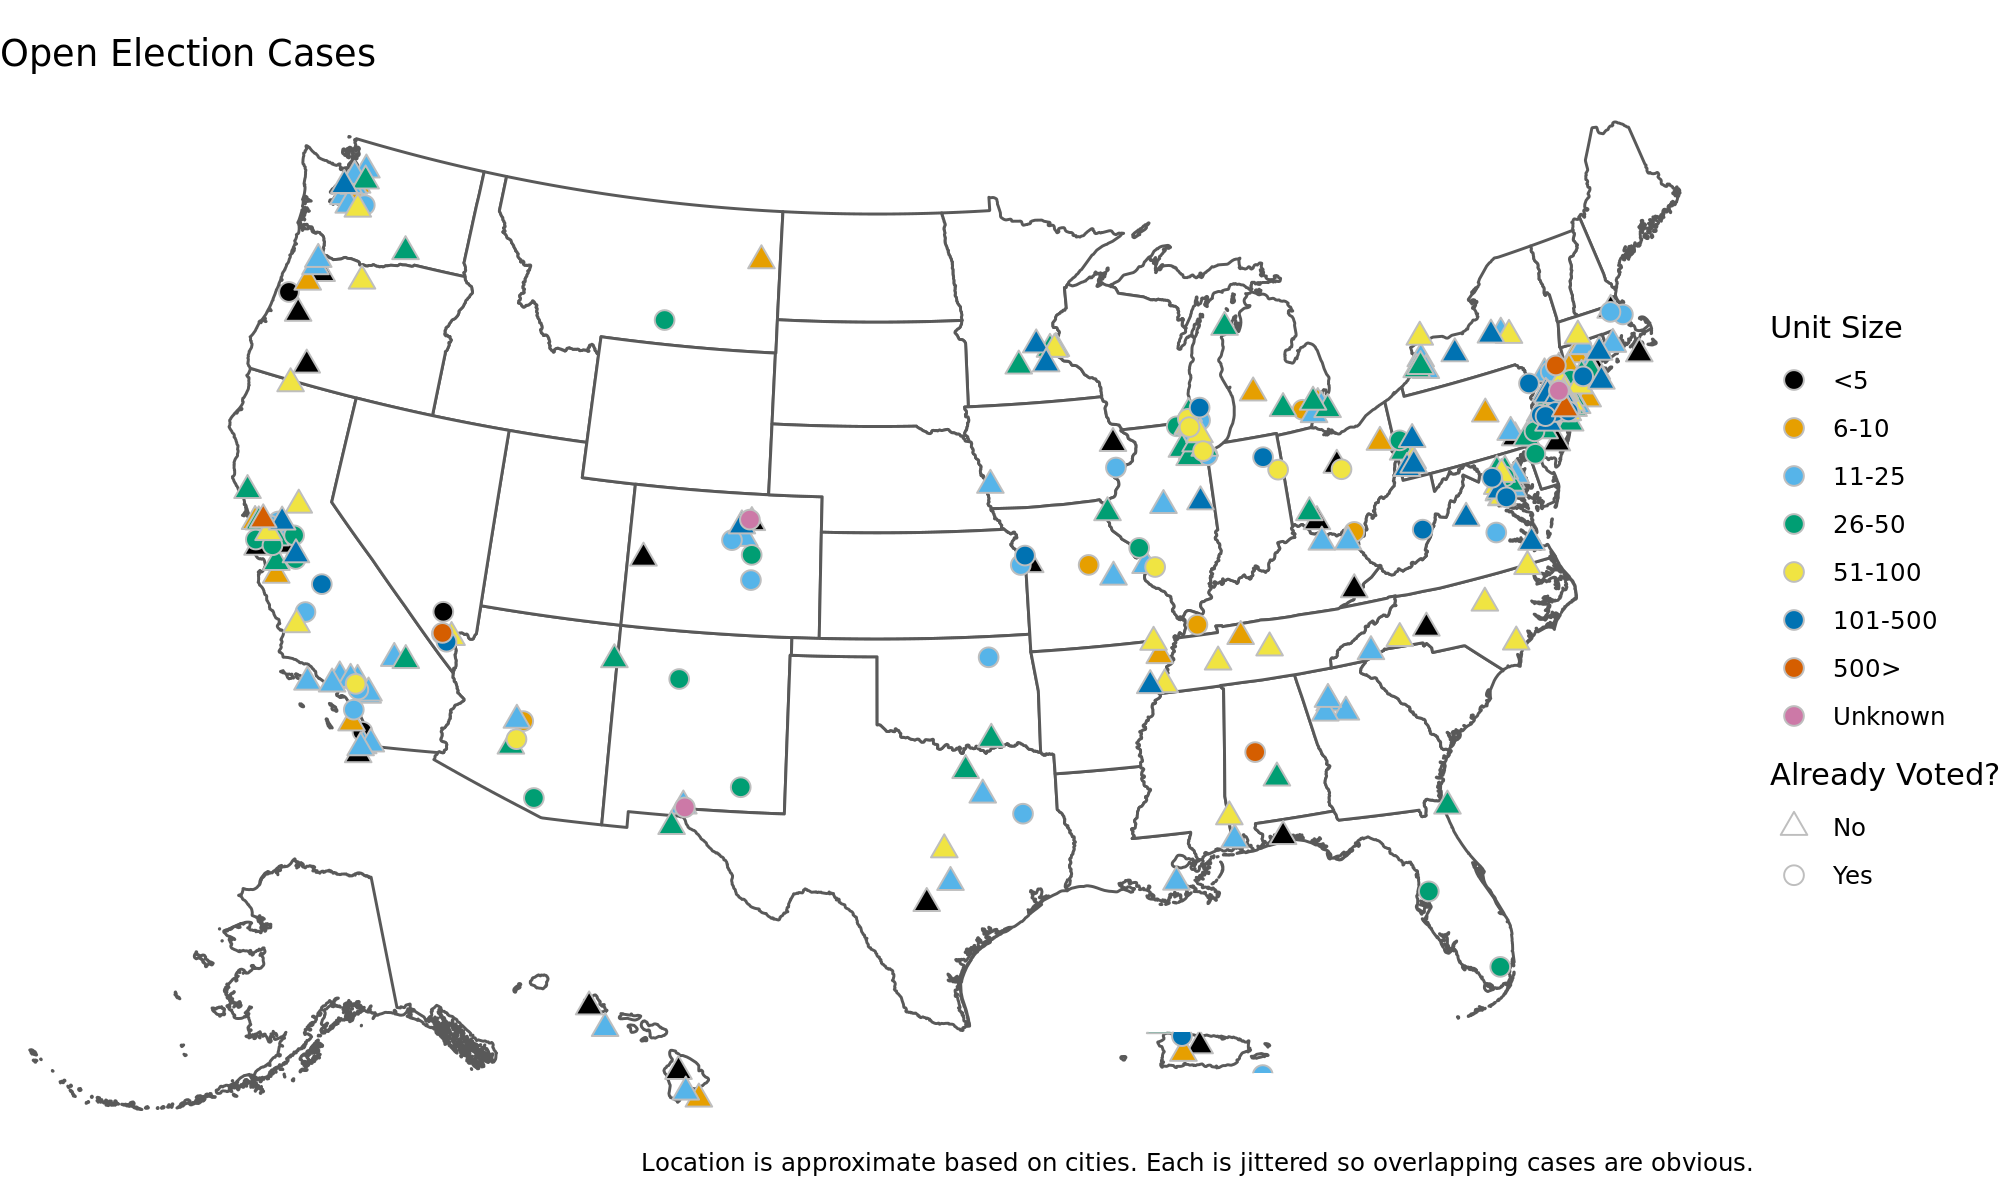
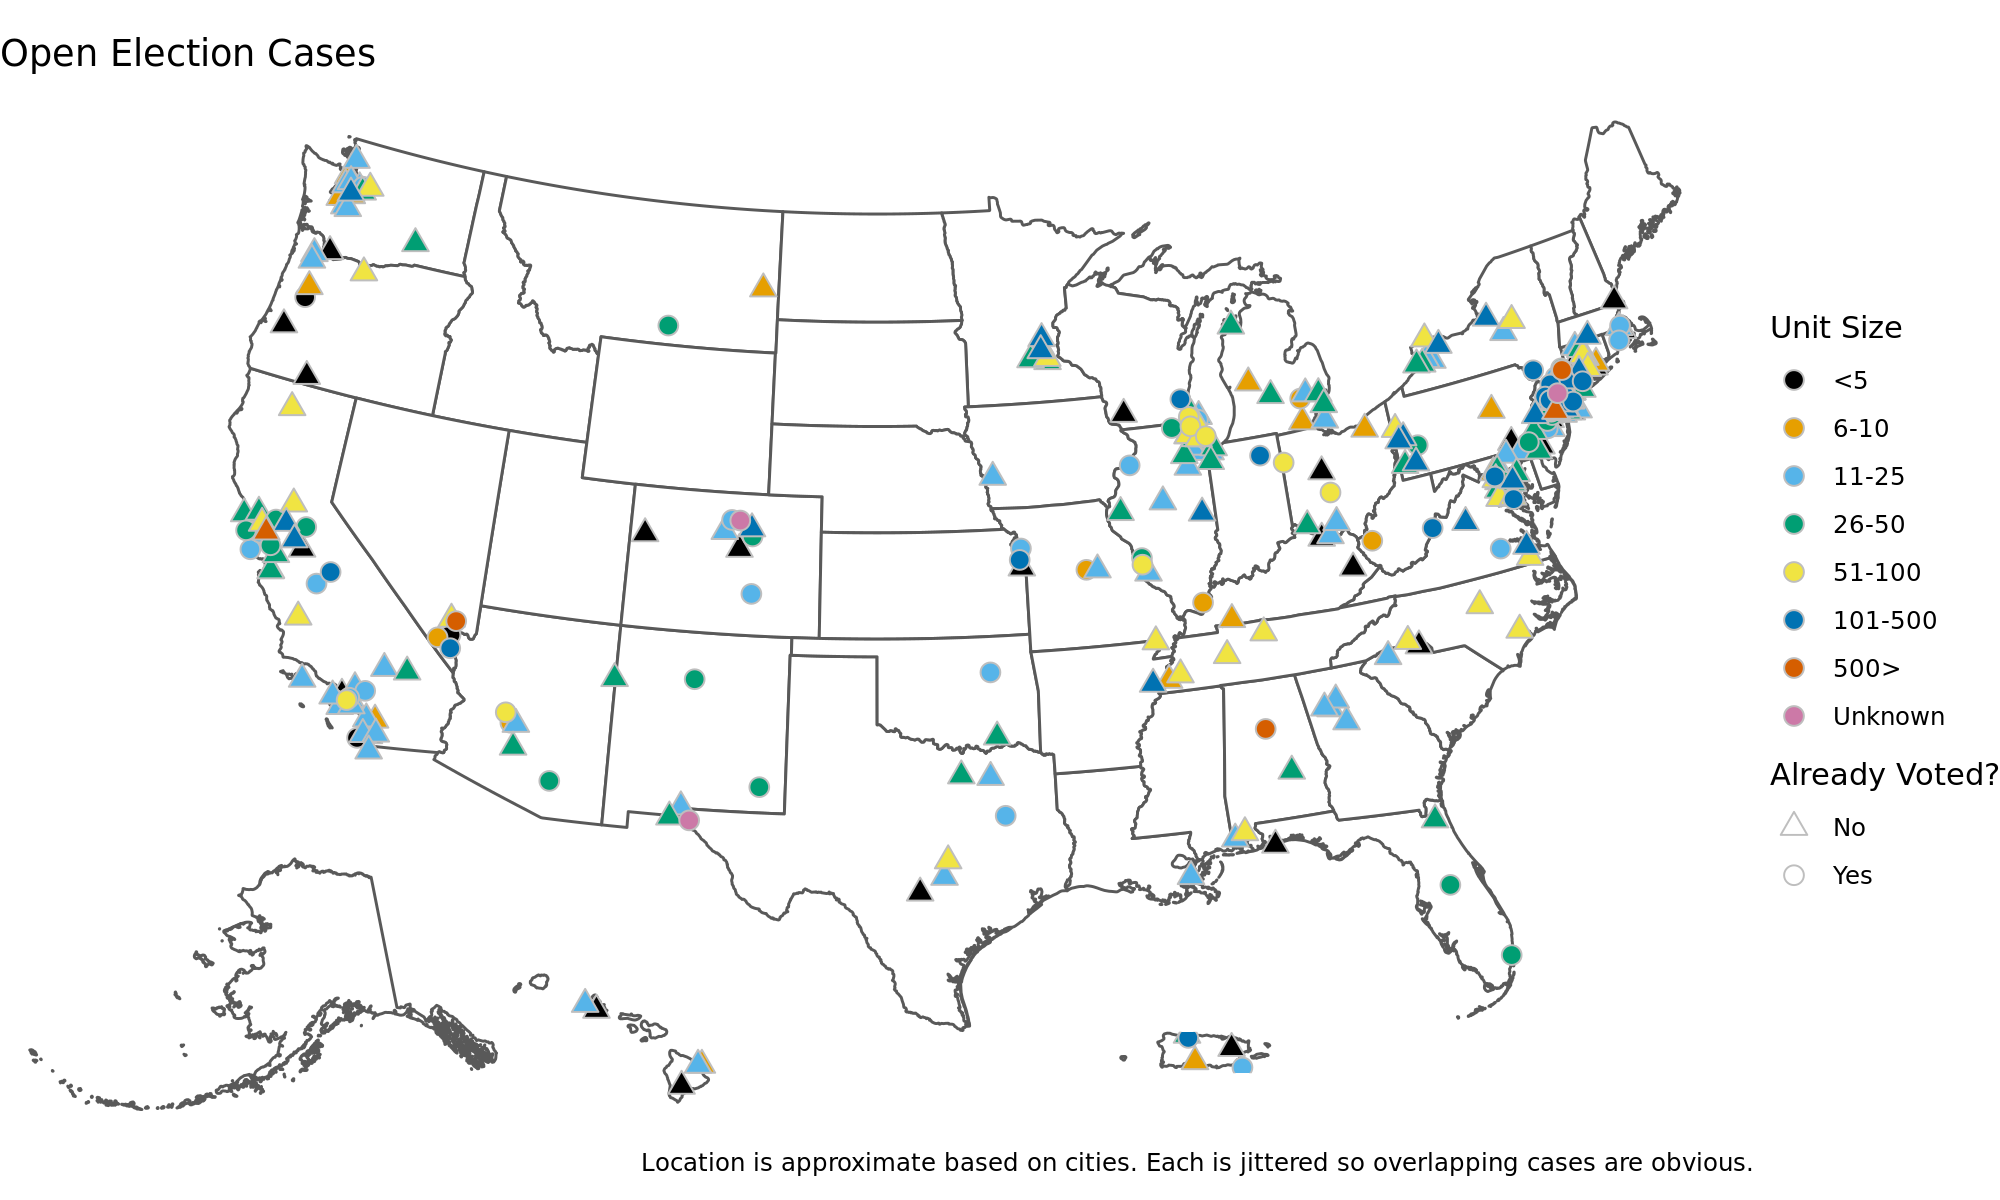
Updated Plots

diff --git a/content/tables/states/California_open.html b/content/tables/states/California_open.html
@@ -437,6 +437,20 @@
    <td style="text-align:center;"> <a href='https://www.nlrb.gov/case/32-RC-281041'>32-RC-281041</a> </td>
   </tr>
   <tr>
+   <td style="text-align:left;"> Tarzana </td>
+   <td style="text-align:left;"> CA </td>
+   <td style="text-align:left;"> Tarzana Medical Center, LLC </td>
+   <td style="text-align:left;"> SEIU Local 121RN, CTW, CLC </td>
+   <td style="text-align:center;"> Aug 06, 2021 </td>
+   <td style="text-align:center;">  </td>
+   <td style="text-align:center;">  </td>
+   <td style="text-align:center;"> Initial </td>
+   <td style="text-align:center;">  </td>
+   <td style="text-align:center;">  </td>
+   <td style="text-align:center;"> 4 </td>
+   <td style="text-align:center;"> <a href='https://www.nlrb.gov/case/31-RC-281017'>31-RC-281017</a> </td>
+  </tr>
+  <tr>
    <td style="text-align:left;"> Hemet </td>
    <td style="text-align:left;"> CA </td>
    <td style="text-align:left;"> Garfield Beach CVS, L.L.C. dba CVS Pharmacy </td>

diff --git a/content/tables/national/United_States_open.html b/content/tables/national/United_States_open.html
@@ -2481,6 +2481,20 @@
    <td style="text-align:center;"> <a href='https://www.nlrb.gov/case/14-RC-280992'>14-RC-280992</a> </td>
   </tr>
   <tr>
+   <td style="text-align:left;"> Tarzana </td>
+   <td style="text-align:left;"> CA </td>
+   <td style="text-align:left;"> Tarzana Medical Center, LLC </td>
+   <td style="text-align:left;"> SEIU Local 121RN, CTW, CLC </td>
+   <td style="text-align:center;"> Aug 06, 2021 </td>
+   <td style="text-align:center;">  </td>
+   <td style="text-align:center;">  </td>
+   <td style="text-align:center;"> Initial </td>
+   <td style="text-align:center;">  </td>
+   <td style="text-align:center;">  </td>
+   <td style="text-align:center;"> 4 </td>
+   <td style="text-align:center;"> <a href='https://www.nlrb.gov/case/31-RC-281017'>31-RC-281017</a> </td>
+  </tr>
+  <tr>
    <td style="text-align:left;"> Washington </td>
    <td style="text-align:left;"> DC </td>
    <td style="text-align:left;"> Omni Excavators, Inc. </td>

diff --git a/content/tables/union/SEIU_open.html b/content/tables/union/SEIU_open.html
@@ -311,6 +311,20 @@
    <td style="text-align:center;"> <a href='https://www.nlrb.gov/case/18-RC-281070'>18-RC-281070</a> </td>
   </tr>
   <tr>
+   <td style="text-align:left;"> Tarzana </td>
+   <td style="text-align:left;"> CA </td>
+   <td style="text-align:left;"> Tarzana Medical Center, LLC </td>
+   <td style="text-align:left;"> SEIU Local 121RN, CTW, CLC </td>
+   <td style="text-align:center;"> Aug 06, 2021 </td>
+   <td style="text-align:center;">  </td>
+   <td style="text-align:center;">  </td>
+   <td style="text-align:center;"> Initial </td>
+   <td style="text-align:center;">  </td>
+   <td style="text-align:center;">  </td>
+   <td style="text-align:center;"> 4 </td>
+   <td style="text-align:center;"> <a href='https://www.nlrb.gov/case/31-RC-281017'>31-RC-281017</a> </td>
+  </tr>
+  <tr>
    <td style="text-align:left;"> Syracuse </td>
    <td style="text-align:left;"> NY </td>
    <td style="text-align:left;"> WellNow Urgent Care, PC </td>

diff --git a/content/tables/union/filed_ytd.html b/content/tables/union/filed_ytd.html
@@ -454,7 +454,7 @@
   </tr>
   <tr>
    <td style="text-align:left;"> SEIU </td>
-   <td style="text-align:center;"> 25 </td>
+   <td style="text-align:center;"> 26 </td>
    <td style="text-align:center;"> 51 </td>
    <td style="text-align:center;"> 37 </td>
    <td style="text-align:center;"> 72.55% </td>

diff --git a/content/tables/states/filed_ytd.html b/content/tables/states/filed_ytd.html
@@ -49,7 +49,7 @@
   </tr>
   <tr>
    <td style="text-align:left;"> CA </td>
-   <td style="text-align:center;"> 48 </td>
+   <td style="text-align:center;"> 49 </td>
    <td style="text-align:center;"> 101 </td>
    <td style="text-align:center;"> 74 </td>
    <td style="text-align:center;"> 73.27% </td>

diff --git a/content/data/national/_index.md b/content/data/national/_index.md
@@ -8,7 +8,7 @@ weight: 1
 ---
 ##  United States
 
-Excluding public employees, in the last year there have been 935 union elections filed in the United States and 886 union elections held. In 572 of those elections a new unit was certified. There are currently 358 open representation cases and 257 of are still waiting to vote.
+Excluding public employees, in the last year there have been 936 union elections filed in the United States and 886 union elections held. In 572 of those elections a new unit was certified. There are currently 359 open representation cases and 258 of are still waiting to vote.
 
 ### Number Employees in a Union Election by Outcome
 {{< image src="United_States_hist_vic.png" >}}

diff --git a/content/data/states/California/_index.md b/content/data/states/California/_index.md
@@ -8,7 +8,7 @@ weight: 1
 ---
 ##  California
 
-Excluding public employees, in the last year there have been 143 union elections filed in California and 136 union elections held. In 88 of those elections a new unit was certified. There are currently 52 open representation cases and 36 of are still waiting to vote.
+Excluding public employees, in the last year there have been 144 union elections filed in California and 136 union elections held. In 88 of those elections a new unit was certified. There are currently 53 open representation cases and 37 of are still waiting to vote.
 
 ### Number Employees in a Union Election by Outcome
 {{< image src="California_hist_vic.png" >}}

diff --git a/content/data/union/SEIU/_index.md b/content/data/union/SEIU/_index.md
@@ -8,7 +8,7 @@ weight: 1
 ---
 ##  SEIU
 
-Excluding public employees, in the last year there have been 74 union elections filed by the SEIU and 60 union elections held. In 44 of those elections a new unit was certified. There are currently 25 open representation cases and 25 of are still waiting to vote.
+Excluding public employees, in the last year there have been 75 union elections filed by the SEIU and 60 union elections held. In 44 of those elections a new unit was certified. There are currently 26 open representation cases and 26 of are still waiting to vote.
 
 ### Number Employees in a Union Election by Outcome
 {{< image src="SEIU_hist_vic.png" >}}
